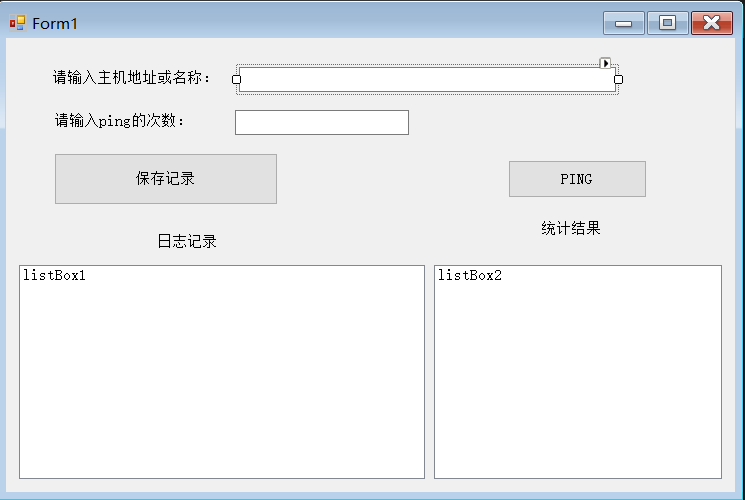
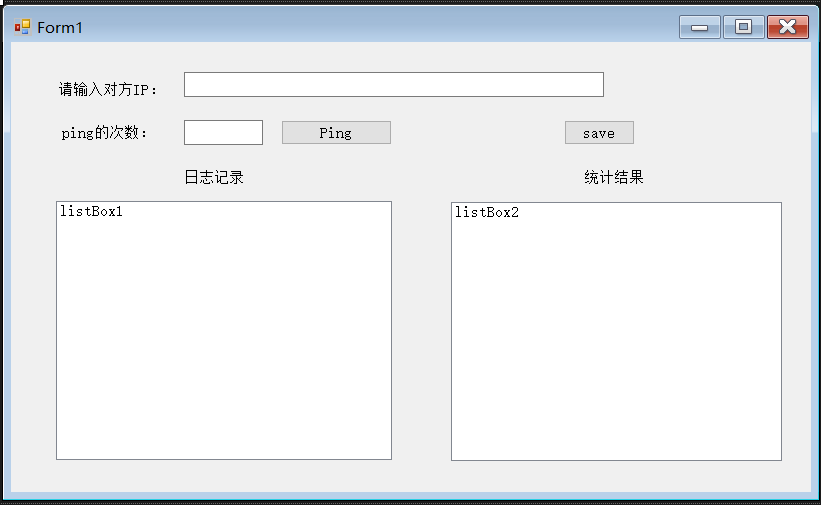
Site updated: 2019-10-14 14:52:20

diff --git a/2019/10/14/Using-c-Language-to-Achieve-Ping-Fuction/index.html b/2019/10/14/Using-c-Language-to-Achieve-Ping-Fuction/index.html
@@ -6,20 +6,21 @@
   <meta name="renderer" content="webkit">
   <meta http-equiv="X-UA-Compatible" content="IE=edge">
   <link rel="dns-prefetch" href="http://yoursite.com">
-  <title>Using c# Language to Achieve Ping Fuction | Hexo</title>
+  <title>Using C# Language to Achieve Ping Fuction | Hexo</title>
   <meta name="viewport" content="width=device-width, initial-scale=1, maximum-scale=1">
-  <meta name="description" content="第一步设计窗体，如下图：">
+  <meta name="description" content="Using C# Language to Achieve Ping Fuction 第一步设计窗体首先确定要使用的工具箱中的控件（button,listBox,textBox,label）,其次修改某些控件的内容（button,label）,完成后如图所示：  第二步进入form1程序代码首先右击form1,查看代码，进入form1代码区，此时就需要我们完成主要功能的实现了。 Form1.CS中代">
 <meta property="og:type" content="article">
-<meta property="og:title" content="Using c# Language to Achieve Ping Fuction">
+<meta property="og:title" content="Using C# Language to Achieve Ping Fuction">
 <meta property="og:url" content="http://yoursite.com/2019/10/14/Using-c-Language-to-Achieve-Ping-Fuction/index.html">
 <meta property="og:site_name" content="Hexo">
-<meta property="og:description" content="第一步设计窗体，如下图：">
+<meta property="og:description" content="Using C# Language to Achieve Ping Fuction 第一步设计窗体首先确定要使用的工具箱中的控件（button,listBox,textBox,label）,其次修改某些控件的内容（button,label）,完成后如图所示：  第二步进入form1程序代码首先右击form1,查看代码，进入form1代码区，此时就需要我们完成主要功能的实现了。 Form1.CS中代">
 <meta property="og:locale" content="en">
 <meta property="og:image" content="http://yoursite.com/images/ping.png">
-<meta property="og:updated_time" content="2019-10-14T05:28:24.840Z">
+<meta property="og:image" content="http://yoursite.com/images/buttonping.png">
+<meta property="og:updated_time" content="2019-10-14T06:51:36.685Z">
 <meta name="twitter:card" content="summary">
-<meta name="twitter:title" content="Using c# Language to Achieve Ping Fuction">
-<meta name="twitter:description" content="第一步设计窗体，如下图：">
+<meta name="twitter:title" content="Using C# Language to Achieve Ping Fuction">
+<meta name="twitter:description" content="Using C# Language to Achieve Ping Fuction 第一步设计窗体首先确定要使用的工具箱中的控件（button,listBox,textBox,label）,其次修改某些控件的内容（button,label）,完成后如图所示：  第二步进入form1程序代码首先右击form1,查看代码，进入form1代码区，此时就需要我们完成主要功能的实现了。 Form1.CS中代">
 <meta name="twitter:image" content="http://yoursite.com/images/ping.png">
   
     <link rel="alternative" href="/atom.xml" title="Hexo" type="application/atom+xml">
@@ -163,7 +164,7 @@
         
   
     <h1 class="article-title" itemprop="name">
-      Using c# Language to Achieve Ping Fuction
+      Using C# Language to Achieve Ping Fuction
     </h1>
   
 
@@ -176,7 +177,12 @@
     
     <div class="article-entry" itemprop="articleBody">
       
-        <h2 id="第一步"><a href="#第一步" class="headerlink" title="第一步"></a>第一步</h2><p>设计窗体，如下图：<br><img src="/images/ping.png" alt="主界面"></p>
+        <h1 id="Using-C-Language-to-Achieve-Ping-Fuction"><a href="#Using-C-Language-to-Achieve-Ping-Fuction" class="headerlink" title="Using C# Language to Achieve Ping Fuction"></a>Using C# Language to Achieve Ping Fuction</h1><hr>
+<h2 id="第一步设计窗体"><a href="#第一步设计窗体" class="headerlink" title="第一步设计窗体"></a>第一步设计窗体</h2><p>首先确定要使用的工具箱中的控件（button,listBox,textBox,label）,其次修改某些控件的内容（button,label）,完成后如图所示：<br><img src="/images/ping.png" alt></p>
+<hr>
+<h2 id="第二步进入form1程序代码"><a href="#第二步进入form1程序代码" class="headerlink" title="第二步进入form1程序代码"></a>第二步进入form1程序代码</h2><p>首先右击form1,查看代码，进入<strong>form1</strong>代码区，此时就需要我们完成<strong>主要功能</strong>的实现了。</p>
+<h3 id="Form1-CS中代码"><a href="#Form1-CS中代码" class="headerlink" title="Form1.CS中代码"></a>Form1.CS中代码</h3><p>1.注意开始的时候应该添加三行代码：<br>using System.Net;<br>using System.Net.Sockets;<br>using System.IO;</p>
+<p>2.返回设计界面，双击Ping按钮后出现Ping的单击事件处理函数,如图所示：<br>  <img src="/images/buttonping.png" alt></p>
 
       
 

diff --git a/index.html b/index.html
@@ -159,7 +159,7 @@
         
   
     <h1 itemprop="name">
-      <a class="article-title" href="/2019/10/14/Using-c-Language-to-Achieve-Ping-Fuction/">Using c# Language to Achieve Ping Fuction</a>
+      <a class="article-title" href="/2019/10/14/Using-c-Language-to-Achieve-Ping-Fuction/">Using C# Language to Achieve Ping Fuction</a>
     </h1>
   
 
@@ -172,7 +172,12 @@
     
     <div class="article-entry" itemprop="articleBody">
       
-        <h2 id="第一步"><a href="#第一步" class="headerlink" title="第一步"></a>第一步</h2><p>设计窗体，如下图：<br><img src="/images/ping.png" alt="主界面"></p>
+        <h1 id="Using-C-Language-to-Achieve-Ping-Fuction"><a href="#Using-C-Language-to-Achieve-Ping-Fuction" class="headerlink" title="Using C# Language to Achieve Ping Fuction"></a>Using C# Language to Achieve Ping Fuction</h1><hr>
+<h2 id="第一步设计窗体"><a href="#第一步设计窗体" class="headerlink" title="第一步设计窗体"></a>第一步设计窗体</h2><p>首先确定要使用的工具箱中的控件（button,listBox,textBox,label）,其次修改某些控件的内容（button,label）,完成后如图所示：<br><img src="/images/ping.png" alt></p>
+<hr>
+<h2 id="第二步进入form1程序代码"><a href="#第二步进入form1程序代码" class="headerlink" title="第二步进入form1程序代码"></a>第二步进入form1程序代码</h2><p>首先右击form1,查看代码，进入<strong>form1</strong>代码区，此时就需要我们完成<strong>主要功能</strong>的实现了。</p>
+<h3 id="Form1-CS中代码"><a href="#Form1-CS中代码" class="headerlink" title="Form1.CS中代码"></a>Form1.CS中代码</h3><p>1.注意开始的时候应该添加三行代码：<br>using System.Net;<br>using System.Net.Sockets;<br>using System.IO;</p>
+<p>2.返回设计界面，双击Ping按钮后出现Ping的单击事件处理函数,如图所示：<br>  <img src="/images/buttonping.png" alt></p>
 
       
 

diff --git a/archives/2019/10/index.html b/archives/2019/10/index.html
@@ -174,7 +174,7 @@
     	 
   
     <h1 itemprop="name">
-      <a class="archive-article-title" href="/2019/10/14/Using-c-Language-to-Achieve-Ping-Fuction/">Using c# Language to Achieve Ping Fuction</a>
+      <a class="archive-article-title" href="/2019/10/14/Using-c-Language-to-Achieve-Ping-Fuction/">Using C# Language to Achieve Ping Fuction</a>
     </h1>
   
 

diff --git a/archives/2019/index.html b/archives/2019/index.html
@@ -174,7 +174,7 @@
     	 
   
     <h1 itemprop="name">
-      <a class="archive-article-title" href="/2019/10/14/Using-c-Language-to-Achieve-Ping-Fuction/">Using c# Language to Achieve Ping Fuction</a>
+      <a class="archive-article-title" href="/2019/10/14/Using-c-Language-to-Achieve-Ping-Fuction/">Using C# Language to Achieve Ping Fuction</a>
     </h1>
   
 

diff --git a/archives/index.html b/archives/index.html
@@ -174,7 +174,7 @@
     	 
   
     <h1 itemprop="name">
-      <a class="archive-article-title" href="/2019/10/14/Using-c-Language-to-Achieve-Ping-Fuction/">Using c# Language to Achieve Ping Fuction</a>
+      <a class="archive-article-title" href="/2019/10/14/Using-c-Language-to-Achieve-Ping-Fuction/">Using C# Language to Achieve Ping Fuction</a>
     </h1>
   
 

diff --git a/2019/10/13/我的第一篇博客文章/index.html b/2019/10/13/我的第一篇博客文章/index.html
@@ -273,7 +273,7 @@
       <i class="icon-circle-left"></i>
       <div class="article-nav-title">
         
-          Using c# Language to Achieve Ping Fuction
+          Using C# Language to Achieve Ping Fuction
         
       </div>
     </a>
